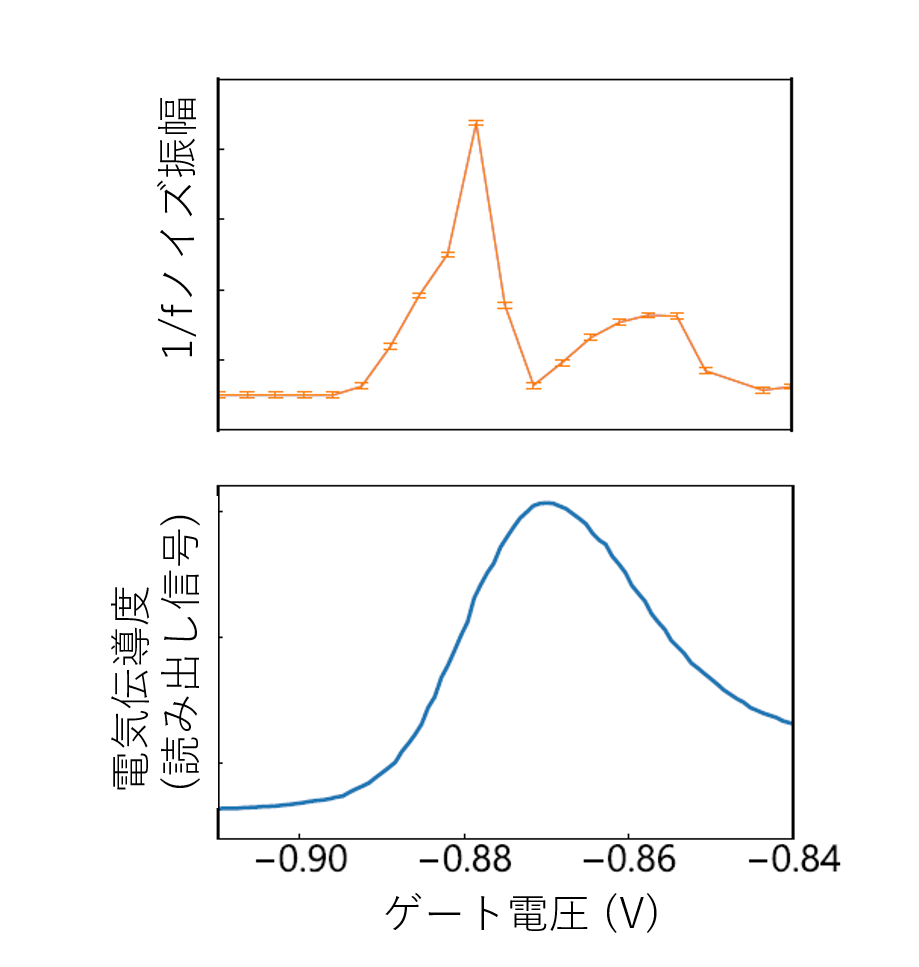
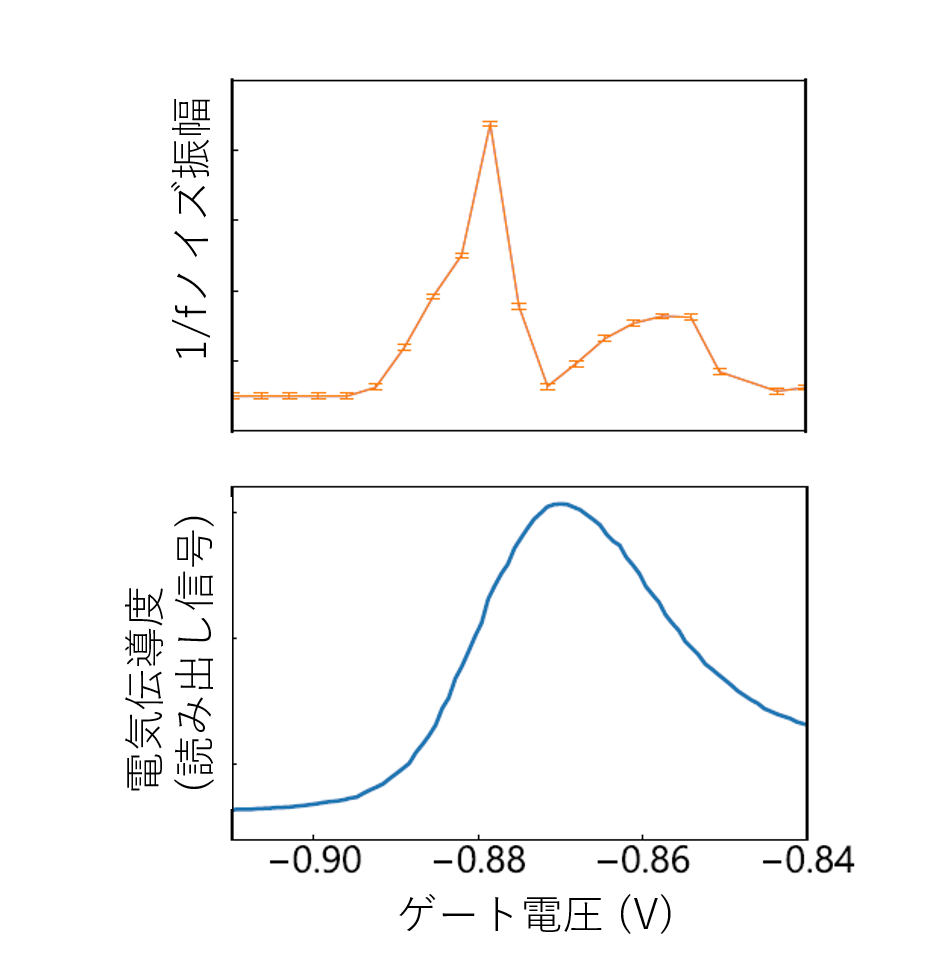
update

diff --git a/content/study/APEX2021/rfnoise.md b/content/study/APEX2021/rfnoise.md
@@ -13,14 +13,14 @@
 半導体量子ドットの電荷状態を高速に読み出し手法として高周波反射測定がよく知られています([よくわかる解説.](https://motoyashinozaki.github.io/minidora/content/iroiro/rf_meas/rf_meas.html){:target="_blank"})。より高速(又は高精度)に電荷状態推定を行うためには読み出しノイズを低減する必要があります。本研究では通常の電流測定とは異なるこの測定系における読み出しノイズ特性を詳細に調べました。<br>
 
 ## 実験
-高周波反射測定を用いて実時間測定を行い、フーリエ変換を施すことでノイズスペクトルの評価を行いました。(図1)
-するとある10MHz程度以下で減衰する特徴的なノイズ特性が得られました。
-この周波数特性は、高周波反射測定を構築するRLC共振器や低温アンプの特性を考慮することで、定量的に記述することができます。測定帯域がMHzオーダー以上ある場合、低温アンプの内因ノイズが読み出しノイズの主な要因となりえます。(経験的にアンプノイズの低減が大きな課題であることはよく知られていました。)<br>
-更に、より1kHz以下の小さい周波数領域では急峻に増大する1/fノイズが現れます。
+高周波反射測定を用いて実時間測定を行い、フーリエ変換を施すことでノイズスペクトルの評価を行いました(図1)。
+するとおよそ10MHz付近における減衰と、1kHz以下における増大という特徴的なノイズ特性が得られました。
+前者の周波数特性は、高周波反射測定を構築するRLC共振器や低温アンプの特性を考慮することで、定量的に記述することができます。測定帯域がMHzオーダー以上ある場合、低温アンプの内因ノイズが読み出しノイズの主な要因となりえます。(経験的にアンプノイズの低減が大きな課題であることはよく知られていました。)<br>
+そして、1kHz以下の低い周波数領域における急峻に増大するノイズは、周波数に反比例する1/fノイズでよく説明できます。
 1/fノイズはアンプなどの内因ノイズとしてもよく知られていますが、高周波反射測定法は信号を振幅変調することでそのようなノイズを避けています。
 にもかかわらず現れるこの1/fノイズは、量子ドット自体が有する1/fノイズの存在を示唆しています。
 この1/fノイズ特性を詳細に調べると、センサ量子ドットにおいて電流が全く流れないようなクーロンブロケード領域は勿論、伝導度が最大となるような状況においても1/fノイズがほぼ現れないことを見出しました。
-私達は、量子ドット特有の伝導特性と1/fノイズ振幅の結果を系統的に調べ、電荷ゆらぎが量子ドットにおける1/fノイズの起源の一つであり、実効的なゲートノイズ電圧として働いていることを詳細に示しました。(図2)<br>
+私達は、量子ドット特有の伝導特性と1/fノイズ振幅の結果を系統的に調べ、電荷ゆらぎが量子ドットにおける1/fノイズの起源の一つであり、実効的なゲートノイズ電圧として働いていることを詳細に示しました(図2)。<br>
 1/fノイズは量子状態のデコヒーレンス要因となる一方で、それ自体からデバイス内部の不純物評価などを行うことができます。最近ではGaNなどパワー半導体における不純物ポテンシャル由来の量子ドット形成も報告されており、1/fノイズ自体を評価することも非常に重要です。<br>
 <p>
 <img src="./noise.png" width="300px" title="noise_spectrum"><br>
@@ -29,7 +29,7 @@
 
 
 <p>
-<img src="./noise2.jpg" width="300px" title="gate_dep"><br>
+<img src="./noise2.png" width="300px" title="gate_dep"><br>
 <em>図2. 1/fノイズ振幅(上)と電気伝導度(下)のゲート電圧依存性</em>
 </p>
 
